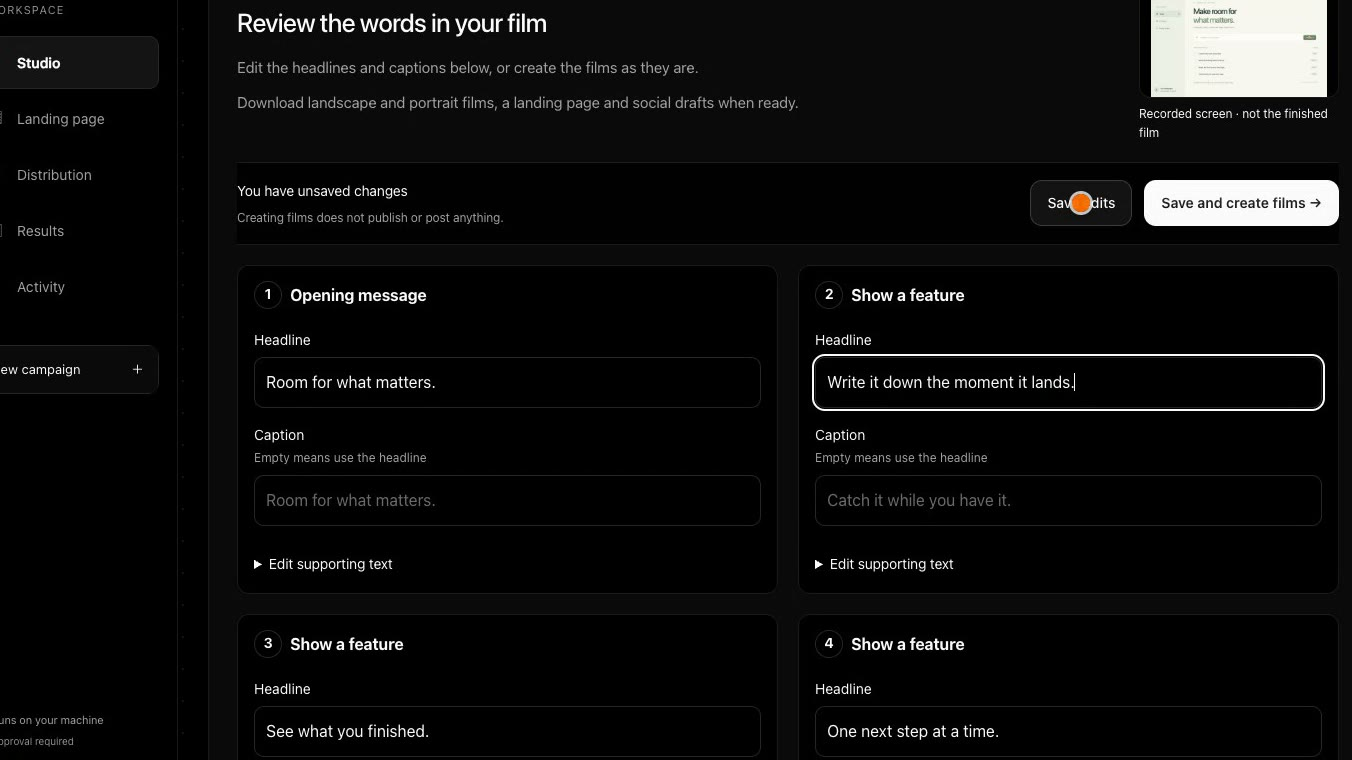
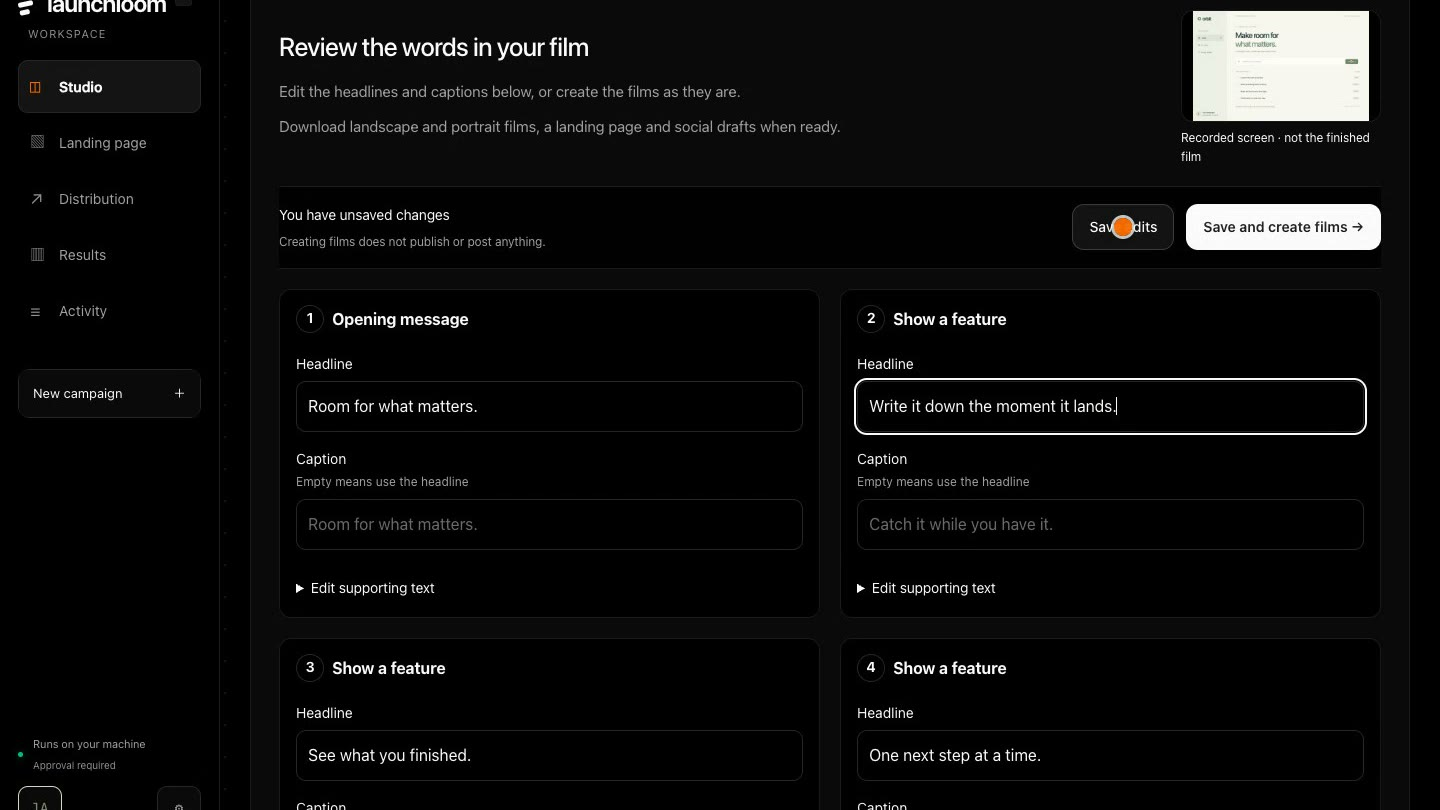
fix: the portrait poster was 4:3 in a 9:16 frame
The fourth blind pass found the phone's first screen being eaten by roughly
300px of black. The cause was mine: the portrait poster was cut as a 4:3 still
(1128x846) while the video it belongs to is 720x1280, so `object-fit: contain`
letterboxed it. Posters are now composed the same way the cuts are — the
portrait one is a real 720x1280 and the landscape one is 1440x810, matching
their videos exactly.

The landscape poster also cropped 43px off each side, slicing the sidebar
labels. It takes the full width of the source now and crops only vertically.

Typography, all of it visible on screen:
- the command wrapped and left `Launchloom` alone on a line; it is three lines
  that do not wrap
- `紹介ページ` and `投稿文` were breaking mid-word in the Japanese headline
- `are configured separately`, `labelled`, `ON YOUR MACHINE` and 「に。」 were
  each sitting alone on a line; `text-wrap: pretty` on the copy that produced
  them

On phones the call to action and the command come before the recording again,
and the still is capped at 52vh rather than 66vh, so there is something to act
on without scrolling.

Gates pass on the real page; verify-homepage 6/6; pytest 848 passed.
Blind score so far: 22 → 21 → 24 → 26 of 40.

Claude-Session: https://claude.ai/code/session_01Hiv1jgPwqbAKm42JBGRtQW

diff --git a/homepage/ja/index.html b/homepage/ja/index.html
@@ -1,9 +1,10 @@
 <!doctype html>
 <html lang="ja"><head><meta charset="utf-8"><meta name="viewport" content="width=device-width,initial-scale=1"><title>Launchloom — 作ったものを、届けられる形へ。</title><meta name="description" content="実際の操作画面から紹介動画、縦動画、紹介ページ、投稿準備へ。ローカルで進めるオープンソースのローンチ制作ツール。"><meta name="theme-color" content="#F6F5F0"><link rel="canonical" href="https://forifor.github.io/Launchloom/ja/"><link rel="alternate" hreflang="en" href="https://forifor.github.io/Launchloom/"><link rel="alternate" hreflang="ja" href="https://forifor.github.io/Launchloom/ja/"><meta property="og:type" content="website"><meta property="og:title" content="Launchloom — 作ったものを、届けられる形へ。"><meta property="og:description" content="操作録画から、紹介動画・縦動画・LP・投稿準備まで。一つのキャンペーンで。"><meta property="og:image" content="https://forifor.github.io/Launchloom/ja/og.png"><meta name="twitter:card" content="summary_large_image"><script>document.documentElement.classList.add('js')</script><link rel="stylesheet" href="../horio-premium.css"><script defer src="../horio-premium.js"></script></head><body>
 <header class="hero" id="top"><div class="shell"><nav class="nav" aria-label="メインナビゲーション"><a class="brand" href="./"><span class="mark" aria-hidden="true"></span><span class="brand-name">launchloom</span></a><div class="nav-links"><a href="#proof">実成果</a><a href="#production">制作</a><a class="lab-context" href="https://github.com/FORIFOR" aria-label="FORIFOR Product Lab">FORIFOR Product Lab ↗</a><a class="github-link" href="https://github.com/FORIFOR/Launchloom">GitHub</a><a class="lang" href="../">EN</a></div></nav>
-<div class="hero-head"><p class="eyebrow">ひとりでプロダクトを作る人へ · すべて手元のマシンで</p><h1>収録1本が、動画と紹介ページと投稿文になる。</h1></div>
-<div class="hero-grid"><div class="hero-copy"><p class="lede">収録した実画面から、横長・縦長の動画、紹介ページ、SNS投稿文が同じ企画で出てきます。手元で完結し、公開の判断は最後まで自分の手に。</p><div class="actions"><a class="btn primary" href="https://github.com/FORIFOR/Launchloom#readme">導入手順を読む ↗</a><a class="link-quiet" href="#proof">何ができたのかを見る</a></div><p class="try-line"><code>git clone https://github.com/FORIFOR/Launchloom &amp;&amp; cd Launchloom
-pip install -e . &amp;&amp; python -m launchloom first-proof</code><button type="button" class="copy-cmd" data-copy data-copied="コピーしました">コピー</button><span class="try-note">macOS / Linux · Python 3.11+ · FFmpeg · 約3分でブラウザにローカルのスタジオ画面が開きます · アカウントもAPIキーも不要</span></p><p class="meta">ローカル・1人用アルファ · Apache-2.0 · 外部AI / Adobe / 投稿サービスは別設定</p></div>
+<div class="hero-head"><p class="eyebrow">ひとりでプロダクトを作る人へ · すべて手元のマシンで</p><h1>収録1本が、動画と<span class="nb">紹介ページ</span>と<span class="nb">投稿文</span>になる。</h1></div>
+<div class="hero-grid"><div class="hero-copy"><p class="lede">収録した実画面から、横長・縦長の動画、紹介ページ、SNS投稿文が同じ企画で出てきます。手元で完結し、公開の判断は最後まで自分の手に。</p><div class="actions"><a class="btn primary" href="https://github.com/FORIFOR/Launchloom#readme">導入手順を読む ↗</a><a class="link-quiet" href="#proof">何ができたのかを見る</a></div><p class="try-line"><code>git clone https://github.com/FORIFOR/Launchloom
+cd Launchloom &amp;&amp; pip install -e .
+python -m launchloom first-proof</code><button type="button" class="copy-cmd" data-copy data-copied="コピーしました">コピー</button><span class="try-note">macOS / Linux · Python 3.11+ · FFmpeg · 約3分でブラウザにローカルのスタジオ画面が開きます · アカウントもAPIキーも不要</span></p><p class="meta">ローカル・1人用アルファ · Apache-2.0 · 外部AI / Adobe / 投稿サービスは別設定</p></div>
 <figure class="stage signature" data-signature data-actual-product><div class="stage-head"><span>実画面の収録</span><span>見出しを1つ直すと、それが映像に入る</span></div><div class="stage-media"><span class="play-hint" aria-hidden="true">&#9654;</span><video class="desktop-film" src="../studio-demo.mp4" poster="../studio-demo-poster.jpg" controls playsinline preload="none" muted></video><video class="mobile-film" src="../studio-demo-vertical.mp4" poster="../studio-demo-vertical-poster.jpg" controls playsinline preload="none" muted></video></div><figcaption class="stage-foot"><span>Launchloom の操作録画。素材は同梱サンプル Orbit · 23秒 · 音声なし · 早送り箇所は画面に明示</span></figcaption></figure></div></div></header>
 <div class="proof-line" aria-label="Launchloomで扱う工程"><div class="shell"><div class="proof-intro"><b>一つの企画を、最後まで。</b><span>実画面 → 公開前確認</span></div><div class="proof-item"><span>01</span><b>Record</b></div><div class="proof-item"><span>02</span><b>Shape</b></div><div class="proof-item"><span>03</span><b>Finish</b></div><div class="proof-item"><span>04</span><b>Publish</b></div></div></div>
 <section id="proof"><div class="shell"><div class="section-head"><div><p class="eyebrow">ACTUAL EVIDENCE</p><h2>画面ではなく、<br>成果物を見せる。</h2></div><p>架空のダッシュボードは置きません。ここにあるのは、Launchloomから実際に作ったページと、公開前の確認画面です。</p></div><div class="evidence-primary"><figure class="real-shot large"><img src="generated-page.png" alt="Launchloomが実際に生成した紹介ページ" loading="lazy"><figcaption><span>生成された紹介ページ</span><span>実行して生成されたもの</span></figcaption></figure><figure class="real-shot"><video class="desktop-film" src="film.mp4" poster="poster.jpg" controls playsinline preload="none" muted><track kind="captions" src="captions.vtt" srclang="ja" label="画面の見出し"></video><video class="mobile-film" src="film-vertical.mp4" poster="poster-vertical.jpg" controls playsinline preload="none" muted><track kind="captions" src="captions.vtt" srclang="ja" label="画面の見出し"></video><figcaption><span>実際に書き出された紹介動画</span><span>実行して書き出されたもの</span></figcaption></figure><div><div class="evidence-copy"><h3>見せるものと、<br>送るものを分ける。</h3><p>紹介ページや動画を作る工程と、公開を許可する工程を分離。仕上げた動画は版として取り込み、選んだ版を投稿準備へ渡します。</p><div class="actions"><a class="btn" href="kit-site/index.html" target="_blank" rel="noopener">実際のHTMLを開く ↗</a><a class="btn" download href="launch-kit.zip">サンプル一式 ↓</a></div></div><figure class="real-shot review"><img src="review-gate.png" alt="Launchloomの公開前確認画面" loading="lazy"><figcaption><span>公開前の確認</span><span>REAL PRODUCT UI</span></figcaption></figure></div></div></div></section>

diff --git a/homepage/index.html b/homepage/index.html
@@ -2,8 +2,9 @@
 <html lang="en"><head><meta charset="utf-8"><meta name="viewport" content="width=device-width,initial-scale=1"><title>Launchloom — turn a real product into launch-ready material.</title><meta name="description" content="Record the real product, shape the film, bring finished MP4s back for review, and prepare launch posts from one local-first campaign."><meta name="theme-color" content="#F6F5F0"><link rel="canonical" href="https://forifor.github.io/Launchloom/"><link rel="alternate" hreflang="en" href="https://forifor.github.io/Launchloom/"><link rel="alternate" hreflang="ja" href="https://forifor.github.io/Launchloom/ja/"><meta property="og:type" content="website"><meta property="og:title" content="Launchloom — turn a real product into launch-ready material."><meta property="og:description" content="A real recording becomes a film, vertical cut, landing page and reviewable posts — from one campaign."><meta property="og:image" content="https://forifor.github.io/Launchloom/og.png"><meta name="twitter:card" content="summary_large_image"><script>document.documentElement.classList.add('js')</script><link rel="stylesheet" href="./horio-premium.css"><script defer src="./horio-premium.js"></script></head><body>
 <header class="hero" id="top"><div class="shell"><nav class="nav" aria-label="Main navigation"><a class="brand" href="./"><span class="mark" aria-hidden="true"></span><span class="brand-name">launchloom</span></a><div class="nav-links"><a href="#proof">Proof</a><a href="#production">Production</a><a class="lab-context" href="https://github.com/FORIFOR" aria-label="FORIFOR Product Lab">FORIFOR Product Lab ↗</a><a class="github-link" href="https://github.com/FORIFOR/Launchloom">GitHub</a><a class="lang" href="ja/">JA</a></div></nav>
 <div class="hero-head"><p class="eyebrow">For people who ship alone · runs entirely on your machine</p><h1>One recording becomes a film, a page and your posts.</h1></div>
-<div class="hero-grid"><div class="hero-copy"><p class="lede">Record the product you built. The same plan gives you a landscape film, a vertical cut, a landing page and social drafts — on your machine, and nothing goes out until you say so.</p><div class="actions"><a class="btn primary" href="https://github.com/FORIFOR/Launchloom#readme">Read the setup ↗</a><a class="link-quiet" href="#proof">See what it produced</a></div><p class="try-line"><code>git clone https://github.com/FORIFOR/Launchloom &amp;&amp; cd Launchloom
-pip install -e . &amp;&amp; python -m launchloom first-proof</code><button type="button" class="copy-cmd" data-copy data-copied="Copied">Copy</button><span class="try-note">macOS / Linux · Python 3.11+ · FFmpeg · about 3 minutes, then the studio opens in your browser · no account, no API key</span></p><p class="meta">Local, single-operator alpha · Apache-2.0 · external AI / Adobe / publishing services are configured separately</p></div>
+<div class="hero-grid"><div class="hero-copy"><p class="lede">Record the product you built. The same plan gives you a landscape film, a vertical cut, a landing page and social drafts — on your machine, and nothing goes out until you say so.</p><div class="actions"><a class="btn primary" href="https://github.com/FORIFOR/Launchloom#readme">Read the setup ↗</a><a class="link-quiet" href="#proof">See what it produced</a></div><p class="try-line"><code>git clone https://github.com/FORIFOR/Launchloom
+cd Launchloom &amp;&amp; pip install -e .
+python -m launchloom first-proof</code><button type="button" class="copy-cmd" data-copy data-copied="Copied">Copy</button><span class="try-note">macOS / Linux · Python 3.11+ · FFmpeg · about 3 minutes, then the studio opens in your browser · no account, no API key</span></p><p class="meta">Local, single-operator alpha · Apache-2.0 · external AI / Adobe / publishing services are configured separately</p></div>
 <figure class="stage signature" data-signature data-actual-product><div class="stage-head"><span>ACTUAL SCREEN RECORDING</span><span>Edit one heading, and it is in the film</span></div><div class="stage-media"><span class="play-hint" aria-hidden="true">&#9654;</span><video class="desktop-film" src="studio-demo-en.mp4" poster="studio-demo-en-poster.jpg" controls playsinline preload="none" muted></video><video class="mobile-film" src="studio-demo-en-vertical.mp4" poster="studio-demo-en-vertical-poster.jpg" controls playsinline preload="none" muted></video></div><figcaption class="stage-foot"><span>Launchloom on screen, editing the bundled Orbit sample · 23s · silent · shortened waits labelled</span></figcaption></figure></div></div></header>
 <div class="proof-line" aria-label="Launchloom workflow"><div class="shell"><div class="proof-intro"><b>One campaign, end to end.</b><span>real screen → pre-publish review</span></div><div class="proof-item"><span>01</span><b>Record</b></div><div class="proof-item"><span>02</span><b>Shape</b></div><div class="proof-item"><span>03</span><b>Finish</b></div><div class="proof-item"><span>04</span><b>Publish</b></div></div></div>
 <section id="proof"><div class="shell"><div class="section-head"><div><p class="eyebrow">ACTUAL EVIDENCE</p><h2>Show the output,<br>not a fabricated dashboard.</h2></div><p>The page and review screen below are actual Launchloom outputs. Product proof is the visual system.</p></div><div class="evidence-primary"><figure class="real-shot large"><img src="generated-page.png" alt="Landing page actually generated by Launchloom" loading="lazy"><figcaption><span>Generated landing page</span><span>Generated by a run</span></figcaption></figure><figure class="real-shot"><video class="desktop-film" src="film.mp4" poster="poster.jpg" controls playsinline preload="none" muted><track kind="captions" src="captions.vtt" srclang="en" label="On-screen headings"></video><video class="mobile-film" src="film-vertical.mp4" poster="poster-vertical.jpg" controls playsinline preload="none" muted><track kind="captions" src="captions.vtt" srclang="en" label="On-screen headings"></video><figcaption><span>The film a run actually produced</span><span>Exported by a run</span></figcaption></figure><div><div class="evidence-copy"><h3>Make first.<br>Release separately.</h3><p>Creation and publishing permission are different steps. Finished videos come back as immutable versions, and the selected version moves into posting preparation.</p><div class="actions"><a class="btn" href="kit-site/index.html" target="_blank" rel="noopener">Open the generated HTML ↗</a><a class="btn" download href="launch-kit.zip">Download sample kit ↓</a></div></div><figure class="real-shot review"><img src="review-gate.png" alt="Launchloom pre-publish review screen" loading="lazy"><figcaption><span>Pre-publish review</span><span>REAL PRODUCT UI</span></figcaption></figure></div></div></div></section>

diff --git a/homepage/horio-premium.css b/homepage/horio-premium.css
@@ -35,6 +35,9 @@ h3{font-size:clamp(22px,2.2vw,30px);font-weight:520;line-height:1.3;letter-spaci
 .hero-head{padding-top:clamp(44px,6vw,88px)}
 /* The cap belongs on the h1: a ch unit on the 16px parent collapses it. */
 .hero-head h1{max-width:min(100%,880px);text-wrap:balance}
+.nb{white-space:nowrap}
+/* Stop single words being left alone on a line. */
+.lede,.meta,.try-note,.stage-foot span,.eyebrow{text-wrap:pretty}
 .hero-head .eyebrow{margin-bottom:18px}
 .hero-grid{display:grid;grid-template-columns:minmax(380px,.92fr) minmax(0,1.24fr);gap:clamp(42px,6vw,92px);align-items:start;padding-top:clamp(18px,2vw,30px)}
 .hero-copy{min-width:0}.hero-copy .lede{margin-top:28px}.hero-copy .actions{margin-top:30px}.hero-copy .meta{margin-top:18px;max-width:40em}
@@ -99,8 +102,8 @@ section{padding-block:clamp(86px,10vw,144px);border-bottom:1px solid var(--line)
   .nav-links{gap:12px;font-size:12px;flex-wrap:wrap;justify-content:flex-end}.nav-links{gap:14px}.brand{font-size:18px}
   .hero{padding-bottom:62px}.hero-grid{display:flex;flex-direction:column;gap:28px;padding-top:26px;align-items:stretch}
   .hero-head{padding-top:clamp(28px,7vw,44px)}.hero-head h1{max-width:none}.hero-head h1{font-size:clamp(28px,8.2vw,40px);line-height:1.22}
-  .hero-copy{display:contents}.hero-copy .lede{order:3;margin-top:0;font-size:16px;line-height:1.7}.hero-copy .actions{order:5;margin-top:18px}.hero-copy .try-line{order:6;margin-top:12px}.signature{order:4;margin-top:20px}.hero-copy .meta{order:7;margin-top:0}
-  .desktop-film{display:none}.mobile-film{display:block}.stage video{aspect-ratio:9/16;max-height:66vh;object-fit:contain}.stage-head,.stage-foot{min-height:40px;padding:10px 12px}.stage-foot{display:block}.stage-foot span{display:block}.stage-foot span+span{margin-top:4px}
+  .hero-copy{display:contents}.hero-copy .lede{order:3;margin-top:0;font-size:16px;line-height:1.7}.hero-copy .actions{order:4;margin-top:18px}.hero-copy .try-line{order:5;margin-top:12px}.signature{order:6;margin-top:22px}.hero-copy .meta{order:7;margin-top:14px}
+  .desktop-film{display:none}.mobile-film{display:block}.stage video{aspect-ratio:9/16;max-height:52vh;object-fit:contain}.stage-head,.stage-foot{min-height:40px;padding:10px 12px}.stage-foot{display:block}.stage-foot span{display:block}.stage-foot span+span{margin-top:4px}
   .js .signature .stage-media{clip-path:inset(26% 0 26% 0 round 10px)}
   .proof-line .shell{display:grid;grid-template-columns:1fr 1fr;width:100%;padding-inline:20px}.proof-intro{grid-column:1/-1;grid-row:auto;padding:18px 0;border-right:0;border-bottom:1px solid var(--line)}.proof-item{padding:16px 12px;border-right:0}.proof-item:nth-child(even){padding-left:0;border-right:1px solid var(--line)}.proof-item:nth-child(odd){padding-right:0}.proof-item:nth-child(4),.proof-item:nth-child(5){border-top:1px solid var(--line)}
   section{padding-block:72px}.section-head{grid-template-columns:1fr;gap:18px;margin-bottom:36px}.section-head>p{font-size:14px}

diff --git a/scripts/edit-demo.py b/scripts/edit-demo.py
@@ -183,12 +183,25 @@ def main(raw_dir: Path, output: Path, lang: str, suffix: str):
     # the studio itself is on screen rather than the sample app it is editing.
     at = {m['label']: m['t'] for m in marks}
     poster_at = at['caption-saved'] - 1.2
-    for poster, (cw, ch, cx0, cy0) in (
-            (output / f'studio-demo{suffix}-poster.jpg', region(0.50, 0.50, 0.94)),
-            (output / f'studio-demo{suffix}-vertical-poster.jpg', region(0.50, 0.50, 0.94, 4 / 3))):
-        subprocess.run(['ffmpeg', '-y', '-v', 'error', '-ss', f'{poster_at:.2f}', '-i', str(raw),
-                        '-frames:v', '1', '-vf', f'crop={cw}:{ch}:{cx0}:{cy0}', '-q:v', '3',
-                        str(poster)], check=True)
+
+    # Landscape: full width of the source, cropped only vertically, so nothing
+    # is sliced off the sides.
+    lw, lh, lx, ly = region(0.50, 0.50, 1.0)
+    subprocess.run(['ffmpeg', '-y', '-v', 'error', '-ss', f'{poster_at:.2f}', '-i', str(raw),
+                    '-frames:v', '1', '-vf', f'crop={lw}:{lh}:{lx}:{ly}', '-q:v', '3',
+                    str(output / f'studio-demo{suffix}-poster.jpg')], check=True)
+
+    # Portrait: build the same 720x1280 composition the vertical cut uses. A
+    # 4:3 still in a 9:16 frame letterboxes into ~300px of black and eats the
+    # phone's first screen.
+    vw, vh, vx, vy = region(0.50, 0.50, 0.94, 4 / 3)
+    inner_h = int(720 * vh / vw) // 2 * 2
+    top = int(1280 * 0.17)
+    subprocess.run(['ffmpeg', '-y', '-v', 'error', '-ss', f'{poster_at:.2f}', '-i', str(raw),
+                    '-frames:v', '1', '-filter_complex',
+                    f'[0:v]crop={vw}:{vh}:{vx}:{vy},scale=720:{inner_h}[s];'
+                    f'color=c=0x000000:s=720x1280[bg];[bg][s]overlay=x=0:y={top}',
+                    '-q:v', '3', str(output / f'studio-demo{suffix}-vertical-poster.jpg')], check=True)
 
     report = {}
     for name, p, planned in ((f'site{suffix}', site, t1), (f'vertical{suffix}', vert, t2)):
